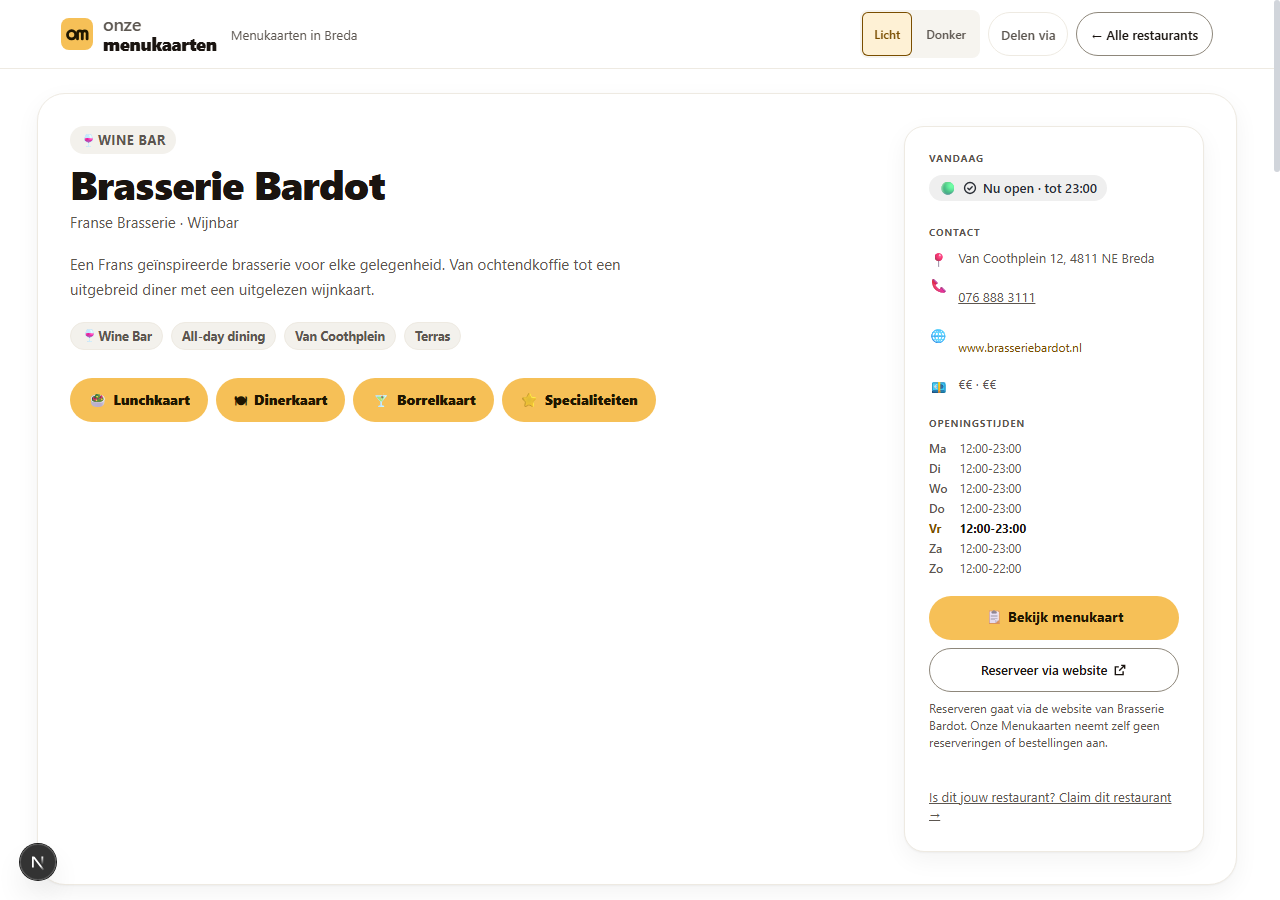
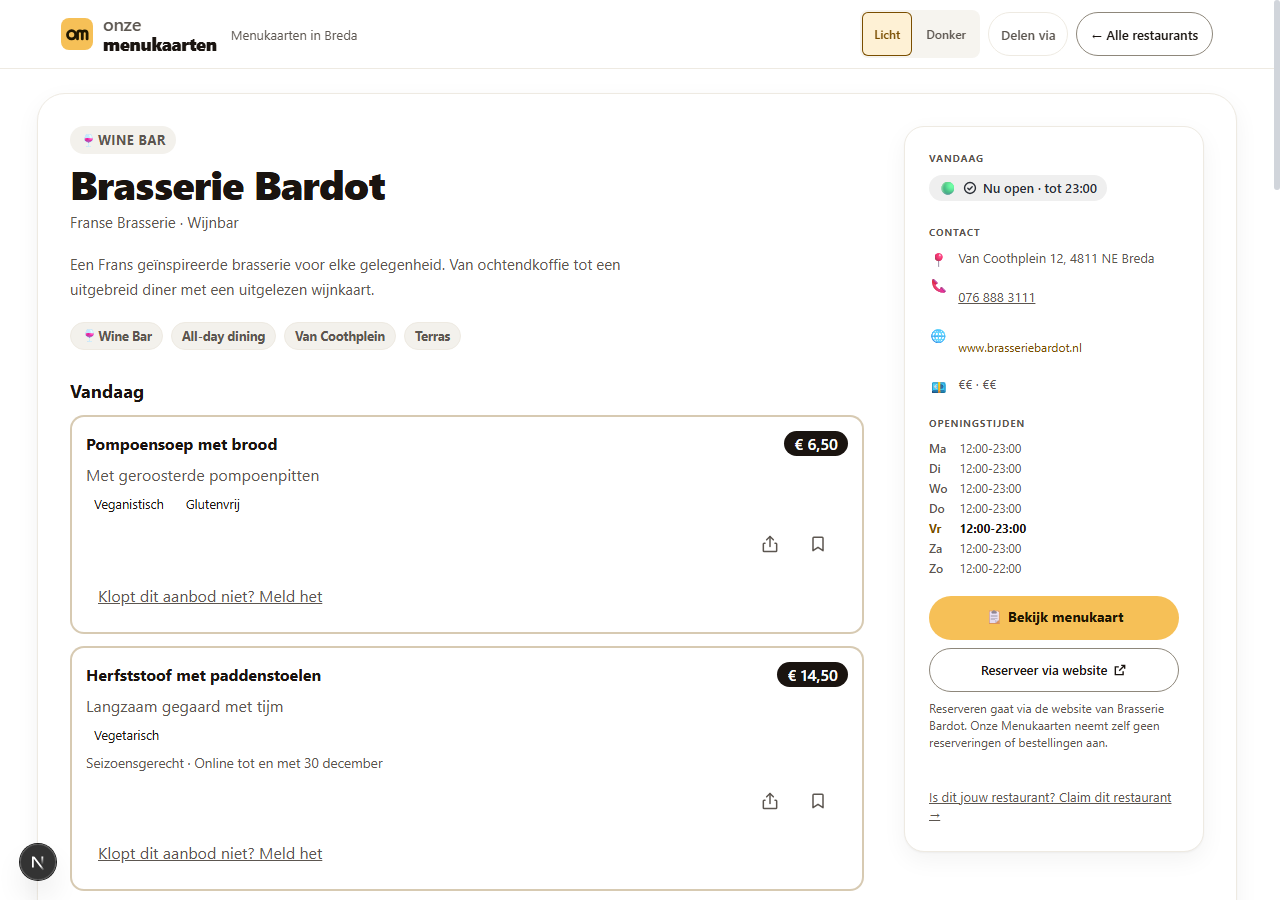
test(be55): bewijs dat Vandaag in beeld staat en een a11y-check met de daghap-stub (#135)
Review deel 2 punten 4 en 5. De browsercheck scrolt voor elke opname naar het blok en meet of kop en blok binnen de viewport vallen; de opnames tonen het blok nu echt. Nieuwe controle: precies een Bewaar en een Deel per kaart. De publieke a11y-check injecteert dezelfde fictieve daghap-stub, zodat het nieuwe blok wordt meegenomen in de audit.

diff --git a/ops/browser/run-be55-browser-check.js b/ops/browser/run-be55-browser-check.js
@@ -116,9 +116,38 @@ const KAART_STAAT = `(() => {
     h2Id: blok && blok.querySelector('h2') ? blok.querySelector('h2').id : '',
     bewaar: Boolean(eerste && eerste.querySelector('[aria-label^="Bewaar"]')),
     deel: Boolean(eerste && eerste.querySelector('[aria-label^="Deel"]')),
+    bewaarAantal: eerste ? eerste.querySelectorAll('[aria-label^="Bewaar"]').length : 0,
+    deelAantal: eerste ? eerste.querySelectorAll('[aria-label^="Deel"]').length : 0,
     apparaat: (() => { try { return localStorage.getItem('daghap-apparaat') || ''; } catch (error) { return ''; } })(),
   };
 })()`;
+
+// BE-55 (#135, herstel na review deel 2) — bewijs dat het blok écht in het
+// beeld staat bij de opname. Eerst naar het blok scrollen (met ruimte voor de
+// plakkende kop), daarna meten of het binnen de viewport valt.
+const TOON_BLOK = `(() => {
+  const blok = document.querySelector('.daghap-vandaag');
+  if (!blok) return { inBeeld: false, reden: 'geen blok' };
+  blok.scrollIntoView({ block: 'start', inline: 'nearest' });
+  window.scrollBy(0, -80);
+  const kop = blok.querySelector('h2');
+  const r = blok.getBoundingClientRect();
+  const k = kop ? kop.getBoundingClientRect() : null;
+  return {
+    inBeeld: r.top >= 0 && r.top < window.innerHeight && r.bottom > 0,
+    kopInBeeld: Boolean(k) && k.top >= 0 && k.top < window.innerHeight,
+    boven: Math.round(r.top),
+    onder: Math.round(r.bottom),
+    hoogte: Math.round(r.height),
+    scherm: window.innerHeight,
+    scrollY: Math.round(window.scrollY),
+  };
+})()`;
+
+async function toonEnMeetBlok(cdp) {
+  return evalJs(cdp, TOON_BLOK);
+}
+
 
 async function vandaagScenario(cdp) {
   // Eerst één keer naar de app: localStorage van about:blank hoort bij een
@@ -147,11 +176,17 @@ async function vandaagScenario(cdp) {
       check(`vandaag ${waar}: de meldknop is minstens 44 px hoog`, staat.knopHoogte >= 44, staat.knopHoogte);
       check(`vandaag ${waar}: het blok is gelabeld door zijn kop`, Boolean(staat.h2Id) && staat.aria === staat.h2Id, `${staat.aria}/${staat.h2Id}`);
       check(`vandaag ${waar}: "Bewaar" en "Deel" staan op de kaart`, staat.bewaar && staat.deel, `${staat.bewaar}/${staat.deel}`);
+      check(`vandaag ${waar}: precies één "Bewaar" en één "Deel" op de kaart`, staat.bewaarAantal === 1 && staat.deelAantal === 1, `${staat.bewaarAantal}/${staat.deelAantal}`);
 
       const prijsContrast = audit.contrastRatio(staat.prijsKleur, staat.prijsAchtergrond);
       const kopContrast = audit.contrastRatio(staat.kopKleur, staat.kaartAchtergrond);
       check(`vandaag ${waar}: de prijs haalt 4,5:1`, Number(prijsContrast) >= 4.5, prijsContrast);
       check(`vandaag ${waar}: de naam haalt 4,5:1`, Number(kopContrast) >= 4.5, kopContrast);
+
+      const inBeeld = await toonEnMeetBlok(cdp);
+      check(`vandaag ${waar}: het blok staat in beeld bij de opname`,
+        inBeeld.inBeeld && inBeeld.kopInBeeld,
+        JSON.stringify(inBeeld));
 
       await shot(cdp, `be55-vandaag-restaurant-${width}-${theme}.png`, { theme, state: 'aanbod' });
     }
@@ -164,6 +199,11 @@ async function vandaagScenario(cdp) {
     await navigate(cdp, MENU_URL, `Boolean(document.querySelector('.daghap-vandaag-card'))`, 120000);
     const staat = await evalJs(cdp, KAART_STAAT);
     check(`menu ${theme}: het blok "Vandaag" staat ook op de menupagina`, staat.aantal === 2 && staat.titel === 'Vandaag', `${staat.aantal}/${staat.titel}`);
+    check(`menu ${theme}: precies één "Bewaar" en één "Deel" op de kaart`, staat.bewaarAantal === 1 && staat.deelAantal === 1, `${staat.bewaarAantal}/${staat.deelAantal}`);
+    const inBeeld = await toonEnMeetBlok(cdp);
+    check(`menu ${theme}: het blok staat in beeld bij de opname`,
+      inBeeld.inBeeld && inBeeld.kopInBeeld,
+      JSON.stringify(inBeeld));
     await shot(cdp, `be55-vandaag-menu-1280-${theme}.png`, { theme, state: 'menu' });
   }
 

diff --git a/ops/browser/run-a11y-public-check.js b/ops/browser/run-a11y-public-check.js
@@ -54,6 +54,7 @@ const {
 } = require('./lib/scenario-filter');
 const { CdpClient } = require('./lib/cdp');
 const audit = require('./lib/a11y-audit');
+const { be55StubScript } = require('./lib/be55-daghap-stub');
 
 const REPO_ROOT = path.resolve(__dirname, '..', '..');
 const PORT = Number(process.env.BE51_PORT || 3170);
@@ -588,6 +589,12 @@ async function main() {
     await cdp.ready;
     await cdp.send('Page.enable');
     await cdp.send('Runtime.enable');
+    // BE-55 (#135, review deel 2 punt 5) — het blok "Vandaag" haalt zijn aanbod
+    // via de publieke daghap-API op. Zonder Supabase-project antwoordt die leeg
+    // en is er niets te controleren; daarom krijgt elke pagina hier dezelfde
+    // fictieve daghap-stub als in run-be55-browser-check.js. Hij vangt alleen
+    // de daghap-routes af, dus de rest van de audit verandert niet.
+    await cdp.send('Page.addScriptToEvaluateOnNewDocument', { source: be55StubScript() });
 
     const runs = [];
     for (const scenario of selected) {
